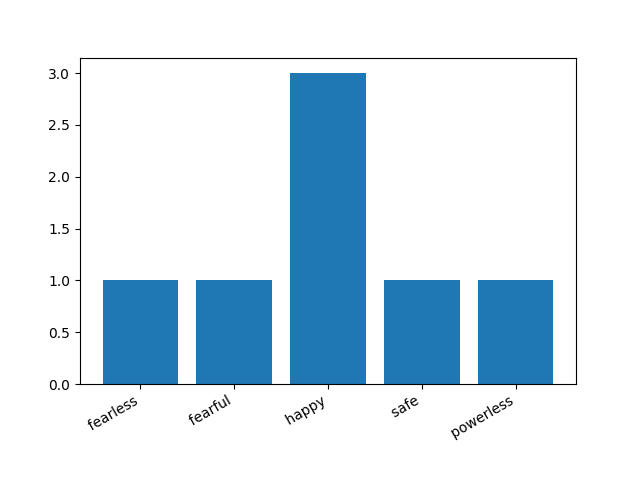
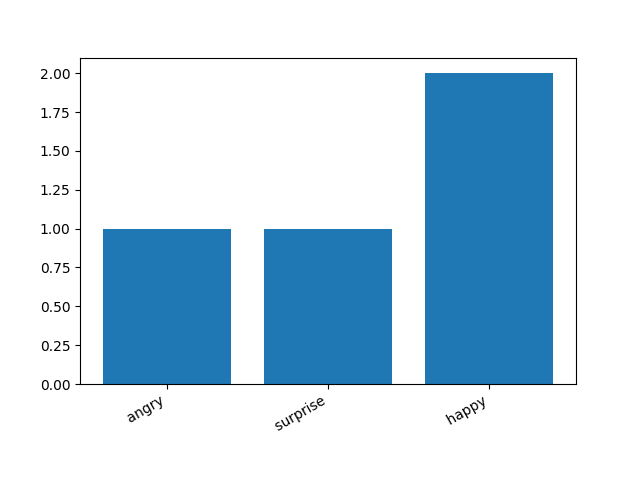
option to show graph after sentiment analysis of breakdown of emotion

diff --git a/main.py b/main.py
@@ -42,7 +42,7 @@ def operations(screen_name):
     else:
         return None
 
-def user_input():
+def user_information():
     screen_name = input("Enter a Twitter handle: ")
     # if screen_name[0] == '@':
     #     screen_name = screen_name[1:]
@@ -56,9 +56,12 @@ def user_input():
     print("Number of Likes: " + str(user.favourites_count))
     return screen_name
 
+def show_graphs(emotions):
+    graph_emotions(emotions)
+
 def main():
     
-    screen_name = user_input()
+    screen_name = user_information()
     
     tweets = operations(screen_name)
     if tweets != None:
@@ -68,18 +71,10 @@ def main():
         emotions = preprocess_text()
         print(f"Emotional associations: {emotions}")
         print(sentiment_analysis(clean_tweets()))
-
-    # tweet_processing(tweets)
-
-    # # select the tweet you want to analyze
+        option = input("Enter 1 to show graphs, or any other value to quit: ")
+        if option == '1':
+            show_graphs(emotions)
     
-    # # Get the sentiment of the tweets
-    
-    # cleaned_tweets = clean_tweets()
-    # sentiment = sentiment_analysis(cleaned_tweets)
-
-    # # Print the sentiment
-    # print(sentiment)
     reset()
     
 main()
